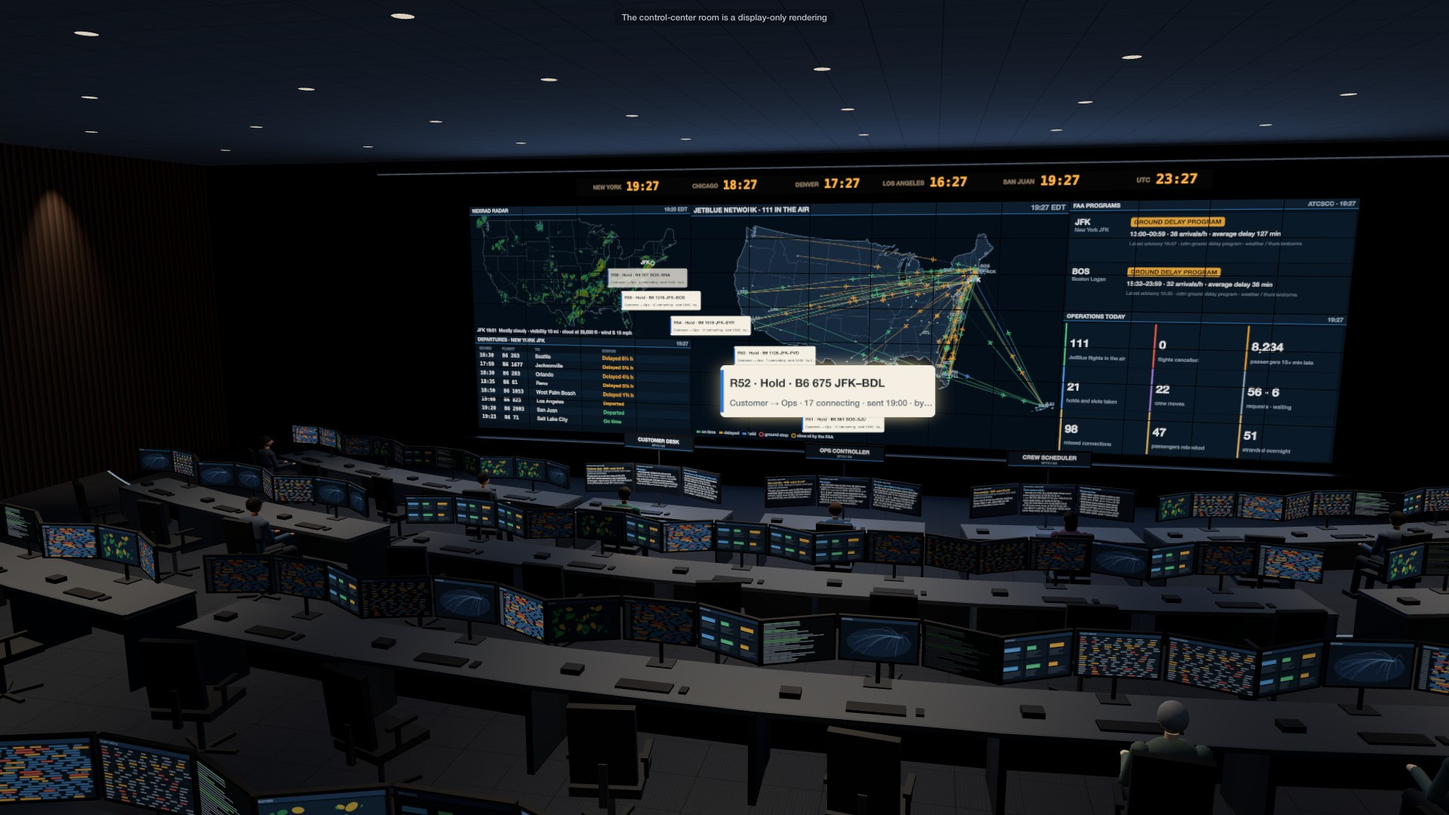
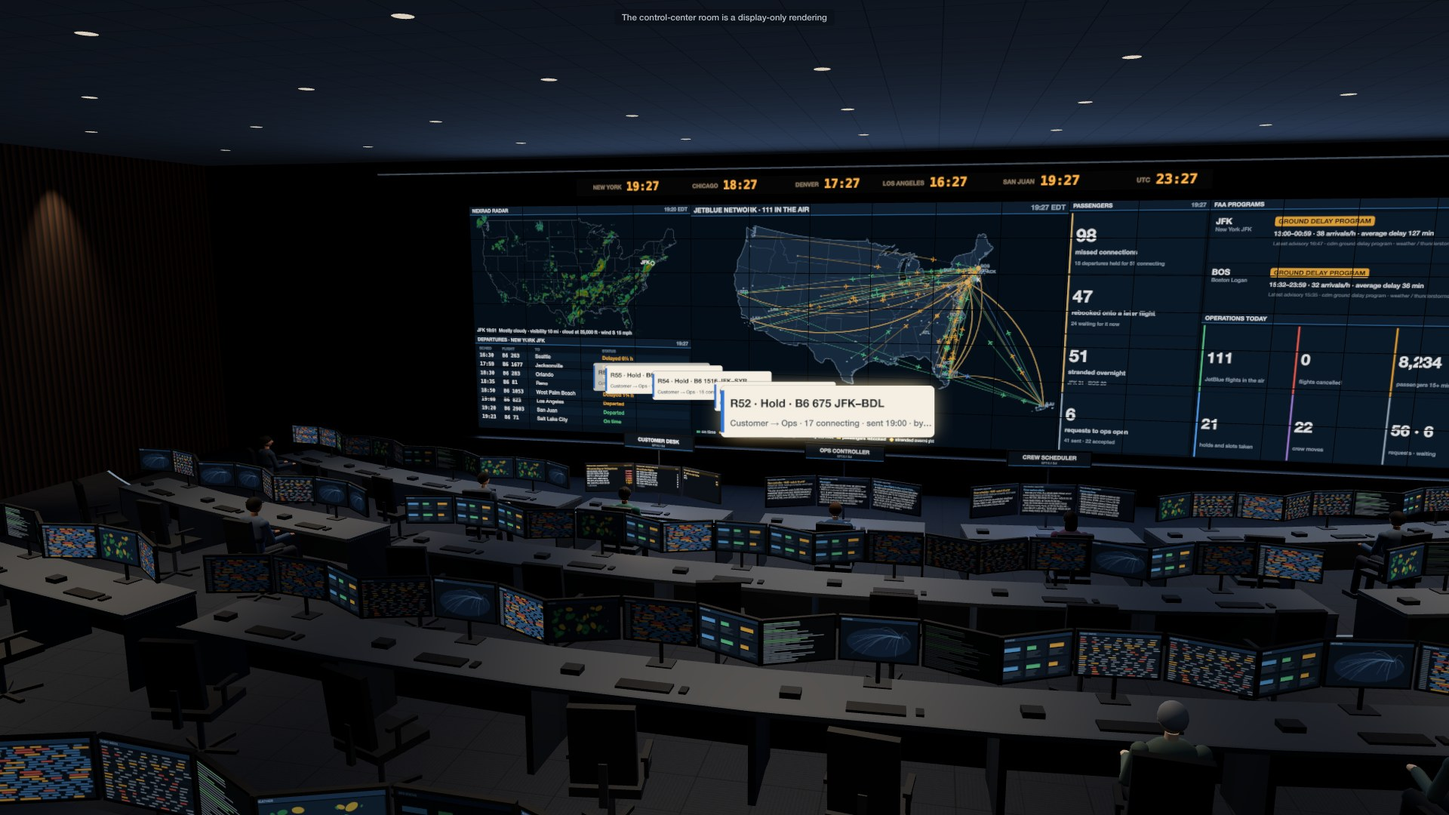
Version 0.4.1: v3's replays open inside the terminal, and the docs show it
Every install and dataset pin moves to v0.4.1, and v3's films to its release. The hero links open the featured run
inside the terminal at a gate held for its connecting passengers; the banner is the hall at gate 2 at Kennedy, the
poster the room with all three desks, and the clip the hotel shuttle, the counter's line after B6 675 is cancelled,
ops declining the customer desk's request and B6 308's connecting passengers reaching its held gate. The README gains
a "Watch a v3 run", and the card and the Space describe the Terminal view, the room's three desks and the map's flows.

diff --git a/scripts/hub_dataset.py b/scripts/hub_dataset.py
@@ -31,7 +31,7 @@ Space (hub/space/ and the viewer, web/) and --space-repo pushes it.
     python scripts/hub_dataset.py sol-v1 --occ-viewer cache/occ/viewer-release --out cache/hub/dataset \\
         --space-out cache/hub/space
     python scripts/hub_dataset.py sol-v1 --occ-viewer cache/occ/viewer-release --out cache/hub/dataset \\
-        --repo earakely-scale/AirOpsEnv-AgentEnv --tag v0.4.0
+        --repo earakely-scale/AirOpsEnv-AgentEnv --tag v0.4.1
 """
 
 import argparse
@@ -959,7 +959,7 @@ def main():
                     help="Where the viewer's stages, traffic, radar frames, hub twins and stills are.")
     ap.add_argument("--plugin-ref", default=f"v{VERSION}", help="The plugin tag the card's bundle pins.")
     ap.add_argument("--repo", help="Push the folder to this dataset repo after writing it.")
-    ap.add_argument("--tag", help="Tag the pushed commit, e.g. v0.4.0; the Space reads the dataset at it.")
+    ap.add_argument("--tag", help="Tag the pushed commit, e.g. v0.4.1; the Space reads the dataset at it.")
     ap.add_argument("--message", default="Publish AirOpsEnv v3")
     ap.add_argument("--date", default=datetime.date.today().isoformat(), help="The eval card's date.")
     ap.add_argument("--space-out", type=Path, help="Write the static Space here.")

diff --git a/tests/hub/test_hub_dataset.py b/tests/hub/test_hub_dataset.py
@@ -43,7 +43,7 @@ OCC_EVAL, OCC_CONTROL, OCC_OTHER = "b6-20240713-0400", "b6-20240703-0400", "b6-2
 SONNET, GPT = "anthropic/claude-sonnet-5-5", "openai/gpt-6.1-sol"
 TAG = f"v{tomllib.loads((ROOT / 'pyproject.toml').read_text())['project']['version']}"
 PLUGIN = f"agentenv-airops @ git+https://github.com/earakely-scale/agentenv-airops-plugin@{TAG}"
-FILMS = {"v0.2.0": "v1's films", "v0.3.0": "v2's films", "v0.4.0": "v3's films"}
+FILMS = {"v0.2.0": "v1's films", "v0.3.0": "v2's films", "v0.4.1": "v3's films"}
 EVAL_CARD = {"env", "version", "authors", "framework", "tasks", "harness", "grading", "baselines", "models", "links",
              "date"}
 

diff --git a/README.md b/README.md
@@ -1,6 +1,6 @@
 <div align="center">
 
-<a href="https://huggingface.co/spaces/earakely-scale/AirOpsEnv-AgentEnv?episode=https://huggingface.co/datasets/earakely-scale/AirOpsEnv-AgentEnv/resolve/v0.4.0/viewer/episodes/occ3-board-sol-joint.openai-gpt-6.1-sol.b6-20250708-0400.json&t=498&view=room&play=1&speed=2"><img src="assets/airops-occ3-banner.jpg" alt="AirOpsEnv v3: JetBlue's operations control center in 3D at 19:27 on the storm day of 8 July 2025, replayed from GPT-6.1 Sol's three desks: the customer desk's holds for connecting passengers on their way to the ops controller under the video wall, with ground delay programs at JFK and Boston" width="100%"></a>
+<a href="https://huggingface.co/spaces/earakely-scale/AirOpsEnv-AgentEnv?episode=https://huggingface.co/datasets/earakely-scale/AirOpsEnv-AgentEnv/resolve/v0.4.1/viewer/episodes/occ3-board-sol-joint.openai-gpt-6.1-sol.b6-20250708-0400.json&view=terminal&moment=passengers&play=1&speed=1"><img src="assets/airops-occ3-banner.jpg" alt="AirOpsEnv v3: inside JetBlue's Terminal 5 at Kennedy at 18:39 on the storm day of 8 July 2025, replayed from GPT-6.1 Sol's three desks: the crowd at gate 2 for B6 2903 to San Juan, its screen and its aircraft at the jet bridge, with the next gates down the hall" width="100%"></a>
 
 <h1>AirOpsEnv v3: passengers and the customer desk</h1>
 
@@ -32,7 +32,7 @@ under a cost that follows every passenger to their final destination: against th
 that cost.
 
 <p align="center">
-  <a href="https://huggingface.co/spaces/earakely-scale/AirOpsEnv-AgentEnv?episode=https://huggingface.co/datasets/earakely-scale/AirOpsEnv-AgentEnv/resolve/v0.4.0/viewer/episodes/occ3-board-sol-joint.openai-gpt-6.1-sol.b6-20250708-0400.json&t=498&view=room&play=1&speed=2"><img src="assets/airops-occ3-hero.webp" width="100%" alt="GPT-6.1 Sol's three desks run JetBlue's control center through the storm of 8 July 2025: at Kennedy passengers who missed their connection reach the service counter and the stranded leave on the hotel shuttle, and in the room ops declines the customer desk's request not to cancel B6 675"></a>
+  <a href="https://huggingface.co/spaces/earakely-scale/AirOpsEnv-AgentEnv?episode=https://huggingface.co/datasets/earakely-scale/AirOpsEnv-AgentEnv/resolve/v0.4.1/viewer/episodes/occ3-board-sol-joint.openai-gpt-6.1-sol.b6-20250708-0400.json&view=terminal&moment=passengers&play=1&speed=1"><img src="assets/airops-occ3-hero.webp" width="100%" alt="GPT-6.1 Sol's three desks run JetBlue's control center through the storm of 8 July 2025: at Kennedy the stranded leave on the hotel shuttle and passengers wait at the service counter after B6 675 is cancelled, in the room ops declines the customer desk's request not to cancel it, and connecting passengers reach the gate of B6 308, held for them"></a>
 </p>
 <p align="center"><sub>Three GPT-6.1 Sol desks run JetBlue's network through the storm of Tuesday 8 July 2025 at
 JFK and Boston (<code>b6-20250708-0400</code>), shown at Kennedy: 637 flights from 04:00 with 81,279 passenger trips, an
@@ -41,20 +41,22 @@ makes 24 crew moves (11 assignments, 7 deadheads, 3 reserve calls, 2 releases an
 departures and cancels one flight; the customer desk sends 60 requests, and ops accepts 30 of its 46 HOLDs and 7 of its
 8 PROTECTs and declines its 3 SUGGEST_CANCELs. Flown on what really happened, the day costs 7.8% more than the best
 plan found and saves 85% of what standard crew-desk practice leaves on the table: reward 0.795, against 0.655 for one
-Sol agent at all three desks and 0.308 for the standard crew desk. In the clip 9 passengers who missed B6 135 to
-Phoenix reach the service counter, 17 passengers stranded overnight leave on the hotel shuttle, the customer desk asks
-ops not to cancel B6 675 to Hartford (51 passengers booked) and ops declines, and B6 675 stays at its gate, cancelled.
-Click it to replay the day in 3D, from the room at 08:18; the
-<a href="https://github.com/earakely-scale/agentenv-airops-plugin/releases/tag/v0.4.0">full film</a> and two more,
-Boston on 10 December 2023 with three desks and with one agent, are on the v0.4.0 release. Airport © OpenStreetMap
+Sol agent at all three desks and 0.308 for the standard crew desk. In the clip 17 passengers stranded overnight leave
+on the hotel shuttle; inside Terminal 5, 9 passengers wait at the service counter to be rebooked after B6 675 to
+Hartford is cancelled; in the room ops declines the customer desk's request not to cancel it (51 passengers booked);
+and 17 connecting passengers reach the gate of B6 308 to Portland, held until 23:45 for them. Click it to replay the
+day in 3D from inside the terminal at 10:01, at gate 20, where B6 2091 to Nantucket is held for 24 connecting
+passengers; the
+<a href="https://github.com/earakely-scale/agentenv-airops-plugin/releases/tag/v0.4.1">full film</a> and two more,
+Boston on 10 December 2023 with three desks and with one agent, are on the v0.4.1 release. Airport © OpenStreetMap
 contributors (ODbL), imagery USGS The National Map; flights BTS; advisories FAA ATCSCC; radar NEXRAD via the Iowa
 Environmental Mesonet; passengers generated from BTS T-100 and the DOT's Origin and Destination Survey. The
-control-center room, the crews' and passengers' paths, the lounges, the counter and the shuttle are drawn for display
-only.</sub></p>
+control-center room, the gate halls, the crews' and passengers' paths, the lounges, the counter and the shuttle are
+drawn for display only.</sub></p>
 
 **Contents:** [The customer desk](#the-customer-desk) · [Passengers](#passengers) · [Grading under P](#grading-under-p)
 · [The v3 board](#the-v3-board) · [Run v3](#run-v3) · [How v3 was validated](#how-v3-was-validated) ·
-[The dataset and the Space](#the-dataset-and-the-space) ·
+[Watch a v3 run](#watch-a-v3-run) · [The dataset and the Space](#the-dataset-and-the-space) ·
 [AirOpsEnv v2](#airopsenv-v2-the-ops-control-center) · [AirOpsEnv v1](#airopsenv-v1-one-desk-at-one-hub) ·
 [Repository](#repository) · [Licence and attribution](#licence-and-attribution)
 
@@ -234,7 +236,7 @@ framework, build the env and the desk agent and register them, and check the wir
 
 ```bash
 uv tool install agentenv-framework \
-    --with "agentenv-airops @ git+https://github.com/earakely-scale/agentenv-airops-plugin@v0.4.0"
+    --with "agentenv-airops @ git+https://github.com/earakely-scale/agentenv-airops-plugin@v0.4.1"
 agent-env airops-occ3 setup                   # builds airops-occ3 and airops-desk for this machine's Docker
 agent-env airops-occ3 tasks --noplay          # writes results/bundles/airops-occ3: each eval date, joint and one
 agent-env run results/bundles/airops-occ3 --task wiring-noplay
@@ -254,8 +256,8 @@ both modes, the very task files the board ran (each desk's cost cap $3 in a thre
 `wiring-noplay`:
 
 ```bash
-agent-env hf run earakely-scale/AirOpsEnv-AgentEnv@v0.4.0 --bundle airops-occ3 --task wiring-noplay
-agent-env hf run earakely-scale/AirOpsEnv-AgentEnv@v0.4.0 --bundle airops-occ3 --task b6-20240713-0400-joint \
+agent-env hf run earakely-scale/AirOpsEnv-AgentEnv@v0.4.1 --bundle airops-occ3 --task wiring-noplay
+agent-env hf run earakely-scale/AirOpsEnv-AgentEnv@v0.4.1 --bundle airops-occ3 --task b6-20240713-0400-joint \
     --model openai/gpt-6.1-sol
 ```
 
@@ -299,6 +301,30 @@ recorded with its reason before it was used, and every bar recomputed by an inde
   record byte for byte, and the day with every delay a desk couldn't yet know changed giving everything up to each
   watch byte for byte. A Sol pilot on 2 training dates scored all 4 runs for $6.20, and then the board scored all 48.
 
+## Watch a v3 run
+
+The [Space](https://huggingface.co/spaces/earakely-scale/AirOpsEnv-AgentEnv) replays the board's 48 runs from the
+dataset, ahead of v2's and v1's. A v3 run opens inside the terminal, the day as its passengers see it:
+
+- **The terminal** (key 9): JetBlue's gate hall at its busiest gate, the crowd at the glass, the aircraft at the
+  bridge and the gate's screen with its flight on time, delayed, boarding, held for its connecting passengers,
+  cancelled or departed. ‹ › (or , and .) steps from gate to gate and to the line at the service counter, and the view
+  moves on when a gate empties. *Start here* opens the featured run at a gate held for its connecting passengers.
+- **The control-center room**: on a three-desk day the camera holds the customer desk, ops and crew together. The
+  customer desk's requests travel to ops as cards and pile at the desk they wait on until the answer comes back; the
+  customer desk's own screens show the connections at risk, the passengers rebooked and waiting to fly and those
+  stranded overnight by airport; the video wall adds a PASSENGERS panel with the missed connections, the rebooked, the
+  stranded and the requests to ops still open.
+- **The airport**, as in v2, with the passengers: connecting passengers walk gate to gate and the stranded leave on
+  the hotel shuttle at the curb.
+- **The US map** draws where the passengers off a cancelled flight or a missed connection are rebooked to, wider for
+  more of them, and how many are stranded overnight at each airport, beside v2's crews.
+- **Films** cut between the terminal, the room and the airport: the line at the counter after a cancellation, a gate
+  held for its connecting passengers, a missed connection.
+
+The gate halls, the lounges, the counter, the passengers' walks and the shuttle are inferred, for display only: the
+gate area is a generic one, not JetBlue's real Terminal 5 or Terminal C.
+
 ## The dataset and the Space
 
 `scripts/hub_dataset.py` builds [earakely-scale/AirOpsEnv-AgentEnv](https://huggingface.co/datasets/earakely-scale/AirOpsEnv-AgentEnv)
@@ -323,10 +349,10 @@ agentenv-hf scans every file for keys and token shapes first.
 ```bash
 python scripts/occ_films.py results/runs/occ3-board-sol --out cache/films --assets cache/occ/viewer-release --final
 python scripts/hub_dataset.py sol-v1 --occ3 occ3-board-sol --occ-viewer cache/films/occ3-board-sol/viewer \
-    --occ-viewer cache/occ/viewer-release --workers 6 --out cache/hub/dataset-v0.4.0 --space-out cache/hub/space-v0.4.0
+    --occ-viewer cache/occ/viewer-release --workers 6 --out cache/hub/dataset-v0.4.1 --space-out cache/hub/space-v0.4.1
 python scripts/hub_dataset.py sol-v1 --occ3 occ3-board-sol --occ-viewer cache/films/occ3-board-sol/viewer \
-    --occ-viewer cache/occ/viewer-release --workers 6 --out cache/hub/dataset-v0.4.0 \
-    --repo earakely-scale/AirOpsEnv-AgentEnv --tag v0.4.0
+    --occ-viewer cache/occ/viewer-release --workers 6 --out cache/hub/dataset-v0.4.1 \
+    --repo earakely-scale/AirOpsEnv-AgentEnv --tag v0.4.1
 ```
 
 `occ_films.py` builds each scored run of the board into a viewer episode with its passengers, replayed for each
@@ -349,7 +375,7 @@ passengers on board: a cancelled passenger costs a flat 523 passenger-minutes. I
 `agent-env airops-occ`, the bundle `airops-occ`, the pack `b6-v2` and its tables in the dataset.
 
 <p align="center">
-  <a href="https://huggingface.co/spaces/earakely-scale/AirOpsEnv-AgentEnv?episode=https://huggingface.co/datasets/earakely-scale/AirOpsEnv-AgentEnv/resolve/v0.4.0/viewer/episodes/occ-board-sol-joint.openai-gpt-6.1-sol.b6-20240713-0400.json&t=362&view=room&play=1&speed=2"><img src="assets/airops-occ-banner.jpg" alt="JetBlue's operations control center in 3D on the Boston storm day of 13 July 2024, replayed from GPT-6.1 Sol's two desks: the ops controller and the crew scheduler at their pods under the video wall of the network, as the crew desk's hold of B6 515 is accepted" width="100%"></a>
+  <a href="https://huggingface.co/spaces/earakely-scale/AirOpsEnv-AgentEnv?episode=https://huggingface.co/datasets/earakely-scale/AirOpsEnv-AgentEnv/resolve/v0.4.1/viewer/episodes/occ-board-sol-joint.openai-gpt-6.1-sol.b6-20240713-0400.json&t=362&view=room&play=1&speed=2"><img src="assets/airops-occ-banner.jpg" alt="JetBlue's operations control center in 3D on the Boston storm day of 13 July 2024, replayed from GPT-6.1 Sol's two desks: the ops controller and the crew scheduler at their pods under the video wall of the network, as the crew desk's hold of B6 515 is accepted" width="100%"></a>
 </p>
 
 AI agents run JetBlue's operations control center through a real storm day, split between two desks the way airline
@@ -367,7 +393,7 @@ Every recorded run replays exactly through the env and passes its audit, and rep
 control-center room where the desks decide, and the airport where it plays out.
 
 <p align="center">
-  <a href="https://huggingface.co/spaces/earakely-scale/AirOpsEnv-AgentEnv?episode=https://huggingface.co/datasets/earakely-scale/AirOpsEnv-AgentEnv/resolve/v0.4.0/viewer/episodes/occ-board-sol-joint.openai-gpt-6.1-sol.b6-20240713-0400.json&t=362&view=room&play=1&speed=2"><img src="assets/airops-occ-hero.webp" width="100%" alt="GPT-6.1 Sol's two desks run JetBlue's control center through the Boston storm of 13 July 2024: the control-center room, where requests pass between the ops controller and the crew scheduler, and Logan in 3D, where crews walk to their gates and held flights leave"></a>
+  <a href="https://huggingface.co/spaces/earakely-scale/AirOpsEnv-AgentEnv?episode=https://huggingface.co/datasets/earakely-scale/AirOpsEnv-AgentEnv/resolve/v0.4.1/viewer/episodes/occ-board-sol-joint.openai-gpt-6.1-sol.b6-20240713-0400.json&t=362&view=room&play=1&speed=2"><img src="assets/airops-occ-hero.webp" width="100%" alt="GPT-6.1 Sol's two desks run JetBlue's control center through the Boston storm of 13 July 2024: the control-center room, where requests pass between the ops controller and the crew scheduler, and Logan in 3D, where crews walk to their gates and held flights leave"></a>
 </p>
 <p align="center"><sub>Two GPT-6.1 Sol desks run JetBlue's network through the Boston storm of Saturday 13 July 2024
 (<code>b6-20240713-0400</code>): 612 flights on 193 aircraft from 04:00, an FAA ground stop and a ground delay program
@@ -621,7 +647,7 @@ framework, build the env and the desk agent and register them, and check the wir
 
 ```bash
 uv tool install agentenv-framework \
-    --with "agentenv-airops @ git+https://github.com/earakely-scale/agentenv-airops-plugin@v0.4.0"
+    --with "agentenv-airops @ git+https://github.com/earakely-scale/agentenv-airops-plugin@v0.4.1"
 agent-env airops-occ setup                    # builds airops-occ and airops-desk for this machine's Docker
 agent-env airops-occ tasks --noplay           # writes results/bundles/airops-occ: each eval date, joint and one
 agent-env run results/bundles/airops-occ --task wiring-noplay
@@ -642,8 +668,8 @@ both modes, the very task files the board ran (each desk's cost cap $5 in a two-
 `wiring-noplay`. The dataset's default bundle is v1's `airops`, so name this one:
 
 ```bash
-agent-env hf run earakely-scale/AirOpsEnv-AgentEnv@v0.4.0 --bundle airops-occ --task wiring-noplay
-agent-env hf run earakely-scale/AirOpsEnv-AgentEnv@v0.4.0 --bundle airops-occ --task b6-20240713-0400-joint \
+agent-env hf run earakely-scale/AirOpsEnv-AgentEnv@v0.4.1 --bundle airops-occ --task wiring-noplay
+agent-env hf run earakely-scale/AirOpsEnv-AgentEnv@v0.4.1 --bundle airops-occ --task b6-20240713-0400-joint \
     --model openai/gpt-6.1-sol
 ```
 
@@ -876,7 +902,7 @@ framework, build the env and agent images and register them, and check the wirin
 
 ```bash
 uv tool install agentenv-framework \
-    --with "agentenv-airops @ git+https://github.com/earakely-scale/agentenv-airops-plugin@v0.4.0"
+    --with "agentenv-airops @ git+https://github.com/earakely-scale/agentenv-airops-plugin@v0.4.1"
 agent-env airops setup --agent        # builds airops-day and airops-llm for this machine's Docker
 agent-env run airops --task wiring-noplay
 ```
@@ -893,7 +919,7 @@ agent-env run airops --task b6-bos-20250216-1500 --model openai/gpt-6.1-sol
 Or play one straight from the dataset, which pins this release:
 
 ```bash
-agent-env hf run earakely-scale/AirOpsEnv-AgentEnv@v0.4.0 --task b6-bos-20250216-1500 \
+agent-env hf run earakely-scale/AirOpsEnv-AgentEnv@v0.4.1 --task b6-bos-20250216-1500 \
     --model anthropic/claude-sonnet-5-5
 ```
 

diff --git a/hub/dataset/README.md b/hub/dataset/README.md
@@ -1,7 +1,7 @@
 ---
 license: other
 license_name: us-public-domain-iem-mit-odbl-apache-2.0
-license_link: https://github.com/earakely-scale/agentenv-airops-plugin/blob/v0.4.0/NOTICE
+license_link: https://github.com/earakely-scale/agentenv-airops-plugin/blob/v0.4.1/NOTICE
 pretty_name: 'AirOpsEnv v3: passengers and the customer desk'
 language:
 - en
@@ -30,7 +30,7 @@ agentenv:
 
 <div align="center">
 
-<a href="https://huggingface.co/spaces/earakely-scale/AirOpsEnv-AgentEnv?episode=https://huggingface.co/datasets/earakely-scale/AirOpsEnv-AgentEnv/resolve/v0.4.0/viewer/episodes/occ3-board-sol-joint.openai-gpt-6.1-sol.b6-20250708-0400.json&t=498&view=room&play=1&speed=2"><img src="https://raw.githubusercontent.com/earakely-scale/agentenv-airops-plugin/v0.4.0/assets/airops-occ3-hero.webp" alt="GPT-6.1 Sol's three desks run JetBlue's control center through the storm of 8 July 2025: at Kennedy passengers who missed their connection reach the service counter and the stranded leave on the hotel shuttle, and in the room ops declines the customer desk's request not to cancel B6 675" width="100%"></a>
+<a href="https://huggingface.co/spaces/earakely-scale/AirOpsEnv-AgentEnv?episode=https://huggingface.co/datasets/earakely-scale/AirOpsEnv-AgentEnv/resolve/v0.4.1/viewer/episodes/occ3-board-sol-joint.openai-gpt-6.1-sol.b6-20250708-0400.json&view=terminal&moment=passengers&play=1&speed=1"><img src="https://raw.githubusercontent.com/earakely-scale/agentenv-airops-plugin/v0.4.1/assets/airops-occ3-hero.webp" alt="GPT-6.1 Sol's three desks run JetBlue's control center through the storm of 8 July 2025: at Kennedy the stranded leave on the hotel shuttle and passengers wait at the service counter after B6 675 is cancelled, in the room ops declines the customer desk's request not to cancel it, and connecting passengers reach the gate of B6 308, held for them" width="100%"></a>
 
 <sub>Three GPT-6.1 Sol desks run JetBlue's network through the storm of Tuesday 8 July 2025
 (<code>b6-20250708-0400</code>), shown at Kennedy: 637 flights from 04:00 with 81,279 passenger trips, an FAA ground
@@ -38,9 +38,10 @@ stop in the afternoon and ground delay programs at JFK and Boston into the night
 moves, the ops controller holds 31 departures and cancels one flight, and the customer desk sends 60 requests; ops
 accepts 30 of its 46 HOLDs and 7 of its 8 PROTECTs. Flown on what really happened, the day saves 85% of what standard
 crew-desk practice leaves on the table: reward 0.795, against 0.655 for one Sol agent at all three desks and 0.308 for
-the standard crew desk. In the clip passengers who missed their connection reach the service counter, the stranded
-leave on the hotel shuttle, and ops declines the customer desk's request not to cancel B6 675. Click to replay the day
-in 3D: the control-center room and the airport.</sub>
+the standard crew desk. In the clip the stranded leave on the hotel shuttle, passengers wait at the service counter
+after B6 675 to Hartford is cancelled, ops declines the customer desk's request not to cancel it, and 17 connecting
+passengers reach the gate of B6 308 to Portland, held for them. Click to replay the day in 3D, from inside the
+terminal at a gate held for its connecting passengers.</sub>
 
 <h1>AirOpsEnv v3: passengers and the customer desk</h1>
 
@@ -95,7 +96,7 @@ decision, the earliest arrival first, for up to five days, then a refund; a flig
 other seat is left, per DOT's refund rule.
 
 How faithful the passengers are, with every check and every miss (a connecting-share check that ran low among them),
-is in [FIDELITY.md](https://github.com/earakely-scale/agentenv-airops-plugin/blob/v0.4.0/FIDELITY.md).
+is in [FIDELITY.md](https://github.com/earakely-scale/agentenv-airops-plugin/blob/v0.4.1/FIDELITY.md).
 
 ## Grading
 
@@ -143,12 +144,16 @@ at their deadline at late notice. The customer desk ships anyway, labelled.
 
 ## Watch a run
 
-Every three-desk run replays in the [replay Space](https://huggingface.co/spaces/earakely-scale/AirOpsEnv-AgentEnv),
-watch by watch, as v2's do, with the passengers added: the customer desk at its pod in the room, its requests
-travelling to ops and back; the gate lounges behind the terminal's glass filling and boarding, connecting passengers
-walking gate to gate, the line at the service counter and the hotel shuttle at the curb; a passengers pane with the
-missed connections, rebookings and nights away; and where passengers are stranded on the US map. The lounges, the
-counter, the passengers' walks and the shuttle are inferred, for display only.
+Every run on the v3 board replays in the [replay Space](https://huggingface.co/spaces/earakely-scale/AirOpsEnv-AgentEnv),
+watch by watch, as v2's do, and opens inside the terminal: in JetBlue's gate hall at its busiest gate, the gate's
+screen with its flight on time, delayed, boarding, held for its connecting passengers or cancelled, the crowd at the
+glass and the aircraft at the bridge; ‹ › steps from gate to gate and to the line at the service counter. On a
+three-desk day the control-center room holds all three desks: the customer desk's requests travel to ops and back and
+pile at the desk they wait on, the customer desk's own screens show the connections at risk, the rebooked and the
+stranded, and the video wall adds a PASSENGERS panel. Connecting passengers walk gate to gate, the stranded leave on the
+hotel shuttle, and the US map draws where the passengers off a cancelled flight or a missed connection are rebooked to
+and how many are stranded overnight at each airport. The gate halls, the lounges, the counter, the passengers' walks
+and the shuttle are inferred, for display only.
 
 ## Tables
 
@@ -197,10 +202,10 @@ the wiring with a day no model plays, then play a day straight from this dataset
 
 ```bash
 uv tool install agentenv-framework \
-    --with "agentenv-airops @ git+https://github.com/earakely-scale/agentenv-airops-plugin@v0.4.0"
+    --with "agentenv-airops @ git+https://github.com/earakely-scale/agentenv-airops-plugin@v0.4.1"
 agent-env airops-occ3 setup
-agent-env hf run earakely-scale/AirOpsEnv-AgentEnv@v0.4.0 --bundle airops-occ3 --task wiring-noplay
-agent-env hf run earakely-scale/AirOpsEnv-AgentEnv@v0.4.0 --bundle airops-occ3 --task b6-20240713-0400-joint \
+agent-env hf run earakely-scale/AirOpsEnv-AgentEnv@v0.4.1 --bundle airops-occ3 --task wiring-noplay
+agent-env hf run earakely-scale/AirOpsEnv-AgentEnv@v0.4.1 --bundle airops-occ3 --task b6-20240713-0400-joint \
     --model openai/gpt-6.1-sol
 ```
 
@@ -219,7 +224,7 @@ passenger costs a flat 523 passenger-minutes.
 
 <div align="center">
 
-<a href="https://huggingface.co/spaces/earakely-scale/AirOpsEnv-AgentEnv?episode=https://huggingface.co/datasets/earakely-scale/AirOpsEnv-AgentEnv/resolve/v0.4.0/viewer/episodes/occ-board-sol-joint.openai-gpt-6.1-sol.b6-20240713-0400.json&t=362&view=room&play=1&speed=2"><img src="https://raw.githubusercontent.com/earakely-scale/agentenv-airops-plugin/v0.4.0/assets/airops-occ-hero.webp" alt="Two GPT-6.1 Sol desks run JetBlue's operations control center through the Boston storm of 13 July 2024 on AgentEnv: the control-center room, where requests pass between the ops controller and the crew scheduler, and Logan in 3D, where crews walk to their gates and held flights leave" width="100%"></a>
+<a href="https://huggingface.co/spaces/earakely-scale/AirOpsEnv-AgentEnv?episode=https://huggingface.co/datasets/earakely-scale/AirOpsEnv-AgentEnv/resolve/v0.4.1/viewer/episodes/occ-board-sol-joint.openai-gpt-6.1-sol.b6-20240713-0400.json&t=362&view=room&play=1&speed=2"><img src="https://raw.githubusercontent.com/earakely-scale/agentenv-airops-plugin/v0.4.1/assets/airops-occ-hero.webp" alt="Two GPT-6.1 Sol desks run JetBlue's operations control center through the Boston storm of 13 July 2024 on AgentEnv: the control-center room, where requests pass between the ops controller and the crew scheduler, and Logan in 3D, where crews walk to their gates and held flights leave" width="100%"></a>
 
 <sub>Two GPT-6.1 Sol desks run JetBlue's network through the Boston storm of Saturday 13 July 2024
 (<code>b6-20240713-0400</code>): 612 flights on 193 aircraft from 04:00, an FAA ground stop and a ground delay program
@@ -270,7 +275,7 @@ trips are generated from the published schedule by a cost-optimizing builder, an
 band.
 
 How faithful the day is, layer by layer, with every check against the record and every miss, is in
-[FIDELITY.md](https://github.com/earakely-scale/agentenv-airops-plugin/blob/v0.4.0/FIDELITY.md#airopsenv-v2-fidelity-report).
+[FIDELITY.md](https://github.com/earakely-scale/agentenv-airops-plugin/blob/v0.4.1/FIDELITY.md#airopsenv-v2-fidelity-report).
 
 ## v2: grading
 
@@ -321,7 +326,7 @@ display only.
 ## v2: run it
 
 Once `agent-env airops-occ setup` has built v2's env and desk agent, play a v2 day from this dataset with
-`agent-env hf run earakely-scale/AirOpsEnv-AgentEnv@v0.4.0 --bundle airops-occ --task b6-20240713-0400-joint --model <model>`.
+`agent-env hf run earakely-scale/AirOpsEnv-AgentEnv@v0.4.1 --bundle airops-occ --task b6-20240713-0400-joint --model <model>`.
 The bundle `airops-occ` holds every date of `b6-v2` in both modes, `<task id>-joint` and `<task id>-one`, the very
 task files v2's board ran (each desk capped at $5 in a two-desk run, $8 for one agent), and `wiring-noplay`.
 
@@ -395,7 +400,7 @@ hindsight optimum and never below 0.2, since the env never strands a flight. The
 
 ## v1: watch a run
 
-[![GPT-6.1 Sol's run of JetBlue's Boston operations desk through the storm of 16 February 2025, replayed in 3D at Logan](https://raw.githubusercontent.com/earakely-scale/agentenv-airops-plugin/v0.4.0/assets/airops-hero.webp)](https://earakely-scale-airopsenv-agentenv.static.hf.space/viewer/index.html?episode=https%3A%2F%2Fhuggingface.co%2Fdatasets%2Fearakely-scale%2FAirOpsEnv-AgentEnv%2Fresolve%2Fv0.4.0%2Fviewer%2Fepisodes%2Fsol-v1.openai-gpt-6.1-sol.b6-bos-20250216-1500.json)
+[![GPT-6.1 Sol's run of JetBlue's Boston operations desk through the storm of 16 February 2025, replayed in 3D at Logan](https://raw.githubusercontent.com/earakely-scale/agentenv-airops-plugin/v0.4.1/assets/airops-hero.webp)](https://earakely-scale-airopsenv-agentenv.static.hf.space/viewer/index.html?episode=https%3A%2F%2Fhuggingface.co%2Fdatasets%2Fearakely-scale%2FAirOpsEnv-AgentEnv%2Fresolve%2Fv0.4.1%2Fviewer%2Fepisodes%2Fsol-v1.openai-gpt-6.1-sol.b6-bos-20250216-1500.json)
 
 <sub>GPT-6.1 Sol runs JetBlue's Boston desk through the storm of Sunday 16 February 2025 (`b6-bos-20250216-1500`): 81
 flights to 38 airports, 12 hourly watches. The FAA Command Center's ground delay program, three ground stops and their
@@ -439,7 +444,7 @@ v2 lifts several of these (the whole network, FAA slots rather than caps, crews)
 ## Licence and attribution
 
 The dataset carries several sets of terms, hence `license: other`; the plugin's
-[NOTICE](https://github.com/earakely-scale/agentenv-airops-plugin/blob/v0.4.0/NOTICE) and each source's `SOURCE.md`
+[NOTICE](https://github.com/earakely-scale/agentenv-airops-plugin/blob/v0.4.1/NOTICE) and each source's `SOURCE.md`
 set them out.
 
 - **U.S. Government works, public domain**: the BTS on-time, T-100 and Form 41 data, the DOT's Airline Origin and

diff --git a/hub/space/README.md b/hub/space/README.md
@@ -8,7 +8,7 @@ app_file: index.html
 pinned: true
 license: other
 license_name: us-public-domain-iem-mit-odbl-apache-2.0
-license_link: https://github.com/earakely-scale/agentenv-airops-plugin/blob/v0.4.0/NOTICE
+license_link: https://github.com/earakely-scale/agentenv-airops-plugin/blob/v0.4.1/NOTICE
 short_description: Run an airline's control center through a storm day
 tags:
 - agentenv
@@ -30,11 +30,14 @@ A third desk joins the ops control center: the customer desk asks ops to hold de
 not to cancel flights whose passengers have nowhere else to go, or to cancel early. The airline rebooks whoever misses
 a connection or loses a flight onto its next seats, today or on a later day, or refunds them. On a storm day it owes
 no hotel (weather and air traffic control are force majeure under its contract): those it can't fly today find their
-own room, and the env charges one GSA lodging night as the passenger's cost. The replay adds the gate lounges behind
-the terminal's glass filling and boarding, connecting passengers walking gate to gate, the line at the service counter
-and the hotel shuttle at the curb, a passengers pane with the missed connections, rebookings and nights away, and where
-passengers are stranded on the US map. The lounges, the counter, the passengers' walks and the shuttle are inferred,
-for display. v3's runs head the page, with the one to watch first under *Start here*; v2's runs follow them.
+own room, and the env charges one GSA lodging night as the passenger's cost. A v3 run opens inside the terminal, at
+the busiest gate: its screen with the flight on time, delayed, boarding, held for its connecting passengers or
+cancelled, the crowd at the glass and the aircraft at the bridge, and ‹ › steps from gate to gate and to the line at the
+service counter. The room holds all three desks, the customer desk's requests piling at the desk they wait on, its own
+screens and a PASSENGERS panel on the wall; the stranded leave on the hotel shuttle, and the US map draws where
+rebooked passengers fly and how many are stranded overnight at each airport. The gate halls, the lounges, the counter,
+the passengers' walks and the shuttle are inferred, for display. v3's runs head the page, with the one to watch first
+under *Start here*; v2's runs follow them.
 
 ## AirOpsEnv v2: the ops control center
 
